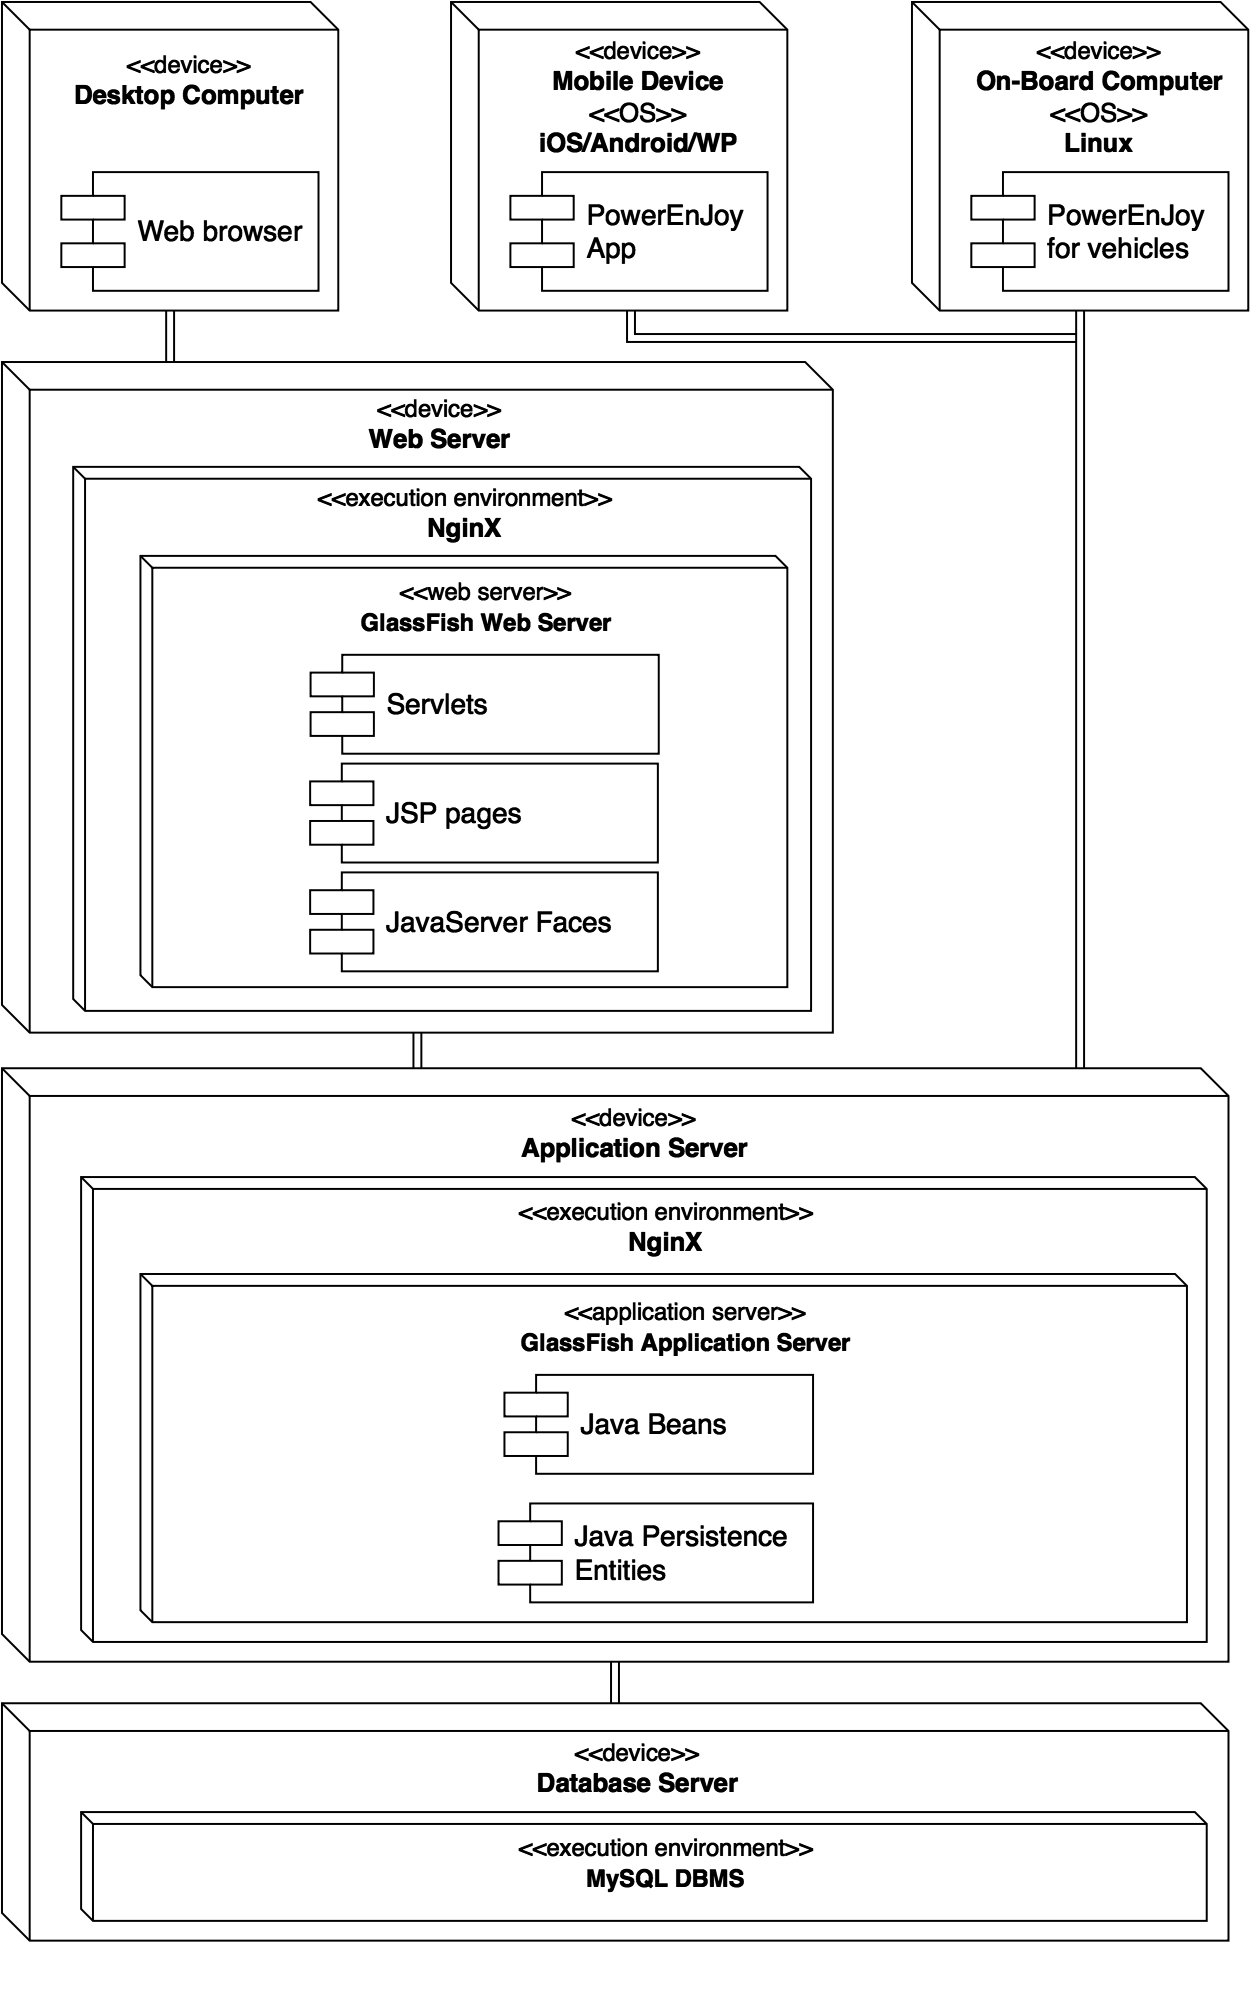
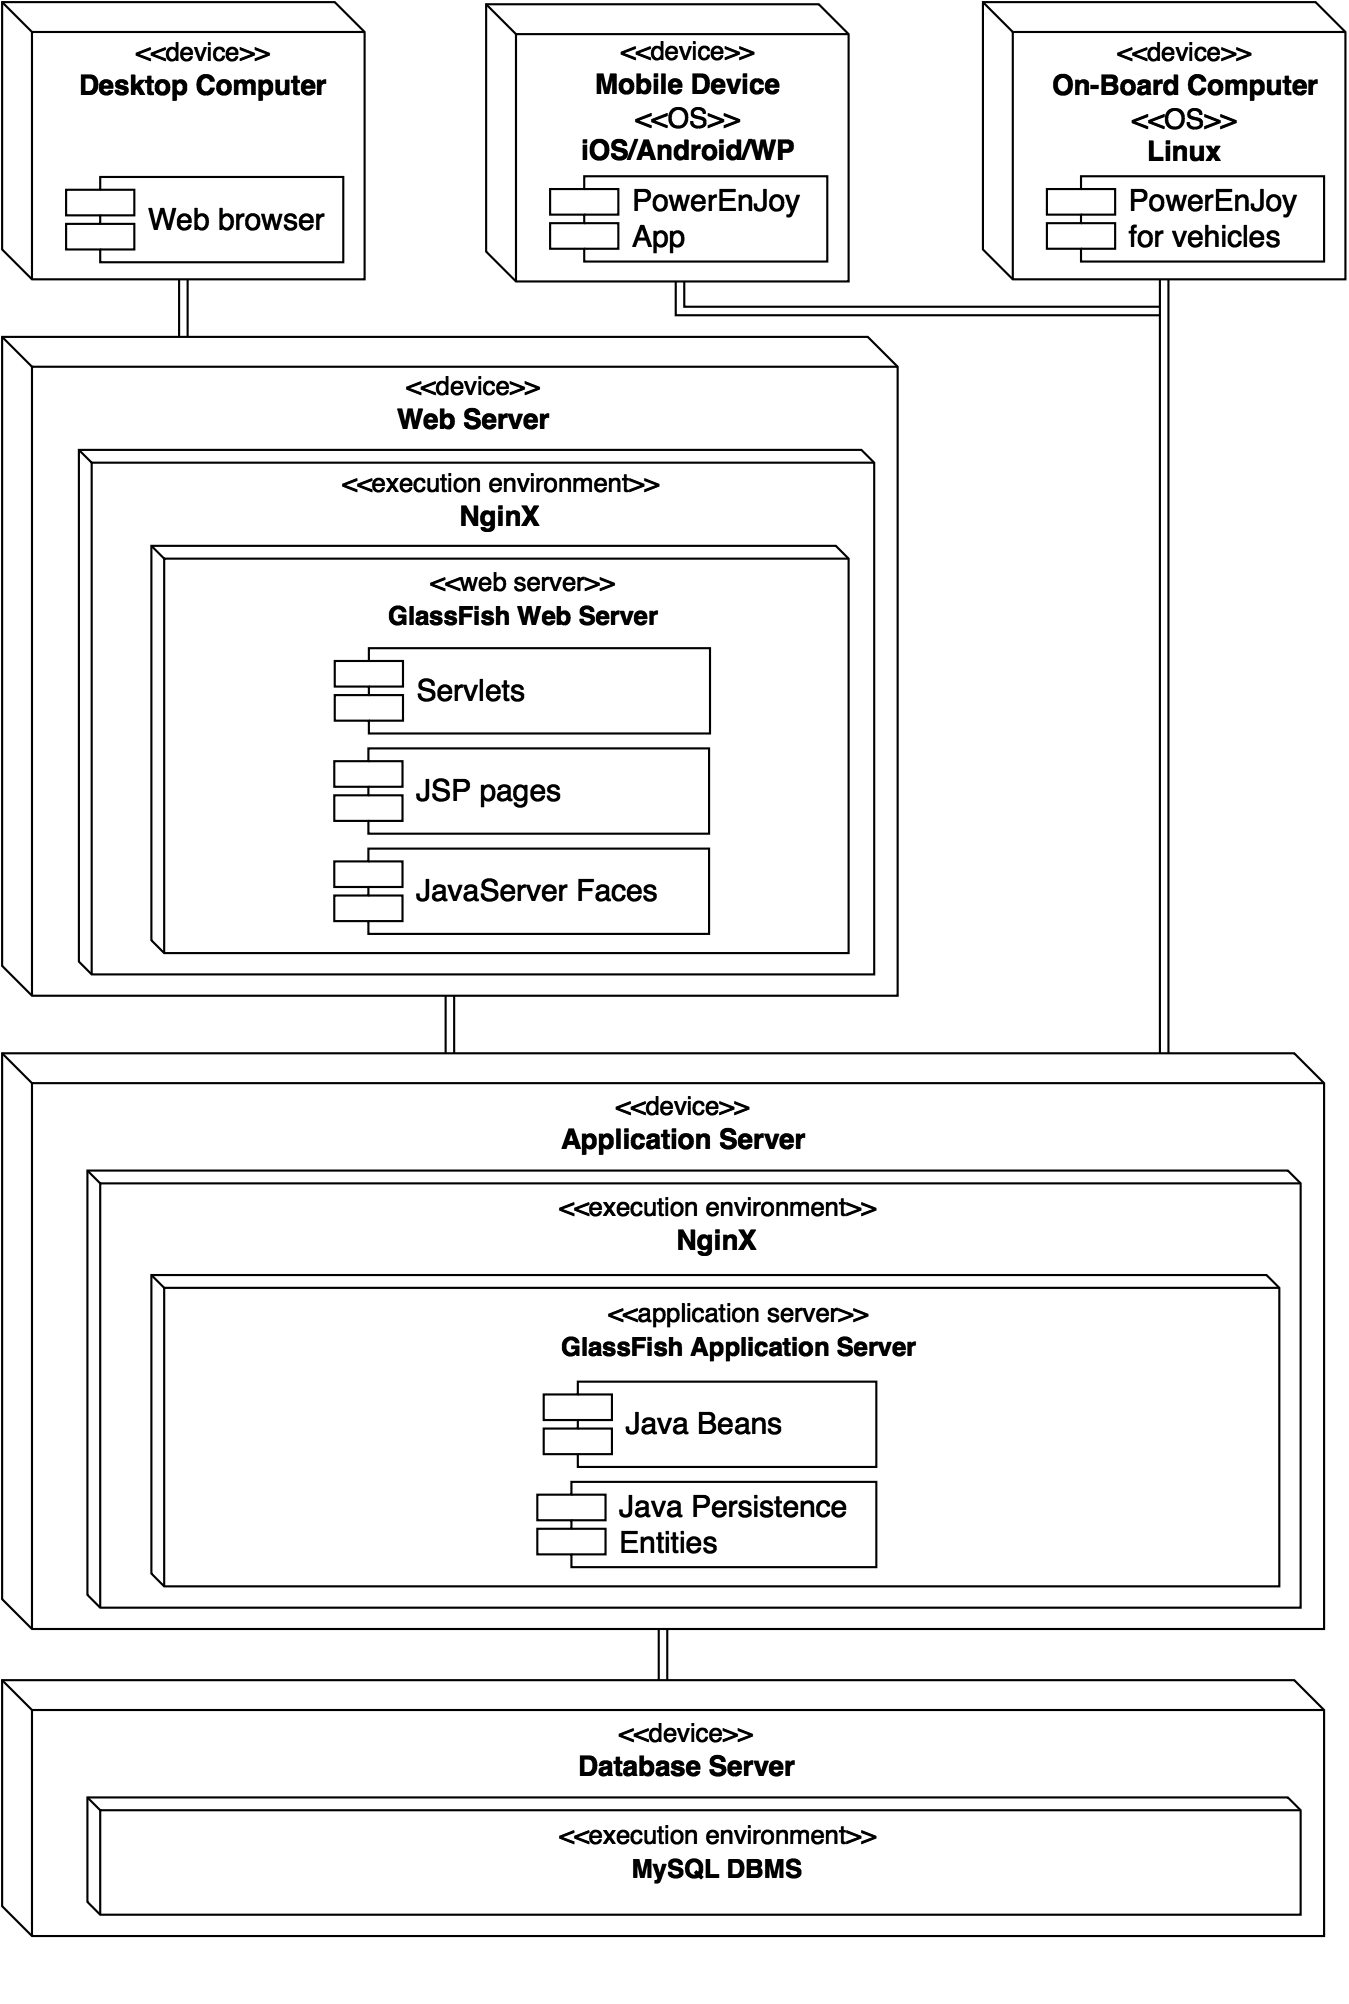
Various fixes

diff --git a/DD/contents/Architectural_design/runtime_view.tex b/DD/contents/Architectural_design/runtime_view.tex
@@ -1,13 +1,11 @@
-In order to state the interaction between the different components of the system here are presented some sequence diagrams.
-\\The sequence diagrams highlight the part of the system that interact for implement a function and the messages exchanged between them.
-
+In this section some sequence diagrams are presented to describe the interaction among different system's components.
 
 \begin{figure}[!ht]
   \centering
   \vspace{0.2cm}
   \includegraphics[width=1.15\textwidth, angle=90]{/DD/registration_runtime}\\
   \vspace{0.4cm}
-  \caption{Sequence diagram for the registration process using the web application.} 
+  \caption{Sequence diagram for the registration process using the web application} 
   \label{fig:registration_runtime} 
 \end{figure}
 \newpage
@@ -16,7 +14,7 @@ In order to state the interaction between the different components of the system
   \vspace{0.2cm}
   \includegraphics[width=1.4\textwidth, angle=90]{/DD/login_runtime}\\
   \vspace{0.4cm}
-  \caption{Sequence diagram for the login process using the web application.} 
+  \caption{Sequence diagram for the login process using the web application} 
   \label{fig:login_runtime} 
 \end{figure}
 \newpage
@@ -25,7 +23,7 @@ In order to state the interaction between the different components of the system
   \vspace{0.2cm}
   \includegraphics[width=1.4\textwidth, angle=90]{/DD/reservation_runtime}\\
   \vspace{0.4cm}
-  \caption{Sequence diagram for the reservation process using the mobile application.} 
+  \caption{Sequence diagram for the reservation process using the mobile application} 
   \label{fig:reservation_runtime} 
 \end{figure}
 \newpage
@@ -34,7 +32,7 @@ In order to state the interaction between the different components of the system
   \vspace{0.2cm}
   \includegraphics[width=1.4\textwidth, angle=90]{/DD/expiration_runtime}\\
   \vspace{0.4cm}
-  \caption{Sequence diagram for the reservation's expiration.} 
+  \caption{Sequence diagram for the reservation's expiration} 
   \label{fig:expiration_runtime} 
 \end{figure}
 \newpage
@@ -43,34 +41,34 @@ In order to state the interaction between the different components of the system
   \vspace{0.2cm}
   \includegraphics[width=1.4\textwidth, angle=90]{/DD/delete_reservation_runtime}\\
   \vspace{0.4cm}
-  \caption{Sequence diagram for the reservation's deletion using the mobile application.} 
+  \caption{Sequence diagram for the reservation's deletion using the mobile application} 
   \label{fig:delete_reservation_runtime} 
 \end{figure}
 \newpage
 \begin{figure}[!ht]
   \centering
   \vspace{0.2cm}
-  \includegraphics[width=1.4\textwidth, angle=90]{/DD/unlock_runtime}\\
+  \includegraphics[width=1.35\textwidth, angle=90]{/DD/unlock_runtime}\\
   \vspace{0.4cm}
-  \caption{Sequence diagram for the car un-lock process. The unlockRequest (as specified in the RASD document) must contain the car's PIN code.} 
+  \caption{Sequence diagram for the car un-lock process. The unlockRequest (as specified in the RASD document) must contain the car's PIN code} 
   \label{fig:unlock_runtime} 
 \end{figure}
 \newpage
 \begin{figure}[!ht]
   \centering
   \vspace{0.2cm}
-  \includegraphics[width=1.35\textwidth, angle=90]{/DD/start_runtime}\\
+  \includegraphics[width=1.3\textwidth, angle=90]{/DD/start_runtime}\\
   \vspace{0.4cm}
-  \caption{Sequence diagram for the start-ride process. It is important to highlight an abuse of terminology: the PIN keyword is used here representing the car-code (which is visible on the vehicle's windscreen) and in \ref{fig:unlock_runtime} representing the user's personal code.}
+  \caption{Sequence diagram for the start-ride process. It is important to highlight an abuse of terminology: the PIN keyword is used here representing the car-code (which is visible on the vehicle's windscreen) and in fig:\ref{fig:unlock_runtime} representing the user's personal code}
   \label{fig:start_runtime} 
 \end{figure}
 \newpage
 \begin{figure}[!ht]
   \centering
   \vspace{0.2cm}
-  \includegraphics[width=1.4\textwidth, angle=90]{/DD/charge_runtime}\\
+  \includegraphics[width=1.35\textwidth, angle=90]{/DD/charge_runtime}\\
   \vspace{0.4cm}
-  \caption{Sequence diagram for the charges computation and application. We decided to use an event-driven approach for the behaviour detection.} 
+  \caption{Sequence diagram for the charges computation and application. We decided to adopt an event-driven approach for the behaviour detection} 
   \label{fig:charge_runtime} 
 \end{figure}
 \newpage

diff --git a/DD/contents/Architectural_design/component_view.tex b/DD/contents/Architectural_design/component_view.tex
@@ -9,10 +9,10 @@
 
 \subsection{System components}
 To define and easily understand what kind of functionalities must be implemented in our system we decided to decompose PowerEnJoy logically into components, which are reusable and easily adaptable bricks for our application. 
-\\In this section the single components and their interactions are analysed. 
+\\In this section the single components and their interactions are analysed, the router component is not represented for sake of simplicity. 
 
 \begin{itemize}
-	\item \textbf{AuthenticationManager}: This component provides all the authentication-related functionalities such as registration, login and credentials generation. It is important to remark that a RESTful API is provided and so no session is created, instead a token is provided and used for authentication purposes.
+	\item \textbf{AuthenticationManager}: This component provides all the authentication-related functionalities such as registration, login, credentials generation and password recovery. It is important to remark here that a RESTful API is provided and so no session is created, instead a token is provided and used for authentication purposes.
 	\item \textbf{ProfileManager}: This component manages all the profile-related functionalities in order to allow informations' editing.
 	\item \textbf{LocationManager}: This component handles the logic behind the vehicle/user localization and tracking, it is also responsible for safe-areas and charging-stations' location consistency.
 	\item \textbf{ReservationController}: This component manages the reservation logic, it receives informations from the LocationManager, correctly handles the timing for expiration and queries the CarManager component to update the car status (FREE, RESERVED, INUSE, OUTOFSERVICE). It is responsible for the Reservation logic and correctness checking.
@@ -20,7 +20,7 @@ To define and easily understand what kind of functionalities must be implemented
 	\item \textbf{CarManager}: This component is responsible for communications with the on-board computer and for car's status update.
 	\item \textbf{ChargeManager}: This component handles the application of charges for rides and reservations, it also process the applications of fees and discounts due to bad/virtuous behaviours. It is responsible to communicate with the PaymentGateway to complete the payment process.
 	\item \textbf{NotificationManager}: This component manages the users' notification, in particular regarding charges and payment requests. It communicates with the NotificationGateway to effectively notify the users.
-	\item \textbf{PaymentGateway}: This component is responsible for the communication with the external payment handler in order to effectively request the payments(automatic payments are pre-authorized).
+	\item \textbf{PaymentGateway}: This component is responsible for the communication with the external payment handler in order to effectively process the payments(automatic payments are pre-authorized).
 	\item \textbf{NotificationGateway}: This component actually creates and send the user notification.
 	\item \textbf{Router}: This component is responsible for routing the requests to the correct components.
 	\item \textbf{Client}: The actual client device(Mobile/Web application).
@@ -28,6 +28,7 @@ To define and easily understand what kind of functionalities must be implemented
 	\item \textbf{DataBase}: The database used to store persistent data.
 \end{itemize}
 
+\newpage
 \subsection{Database components}
 In particular the data stored in the database will be split through different subcomponents that identified the main entities of our system:
 User,Vehicle, Location, Safe Area, Charging Station, Reservation, Ride, Behaviours and Payment.  

diff --git a/DD/contents/Architectural_design/overview.tex b/DD/contents/Architectural_design/overview.tex
@@ -1,6 +1,6 @@
-A brief description of the general design context, the general approach and the overall design of the system with its processes is presented in this section of the DD.
+A brief description of the overall design of the system is presented in this section of the DD.
 Our system will be developed as a 4-tiered JEE application, divided as Client Tier, Web Tier, Business Tier and the EIS Tier. It is distributed between client machines, Java EE server machine and the database.
-\\The mobile and web applications in particular are thin since data operations will be computed by a central server; in this way there is no heavy load on user side clients. We think that this is the most feasible approach because the two applications have the same goals. 
+\\The mobile and web applications in particular are thin since data operations will be computed by a central server; in this way there is no heavy load on user side clients.
 \\The diagram below provides a better understanding of the components of our system, highlighting the interactions among them:
 %\subsubsection{Architecture Component Diagram}
 \begin{figure}[!ht]
@@ -8,11 +8,8 @@ Our system will be developed as a 4-tiered JEE application, divided as Client Ti
   \vspace{0.2cm}
   \includegraphics[width=1.0\textwidth]{/DD/architecture}\\
   \vspace{0.4cm}
-  \caption{Components Diagram} 
-  \label{fig:4-Tier_Architecture} 
+  \caption{System architecture} 
+  \label{fig:architecture}
 \end{figure}
 
-This represent a high level view of the design of the system, were is highlighted the distribution of the system over the three locations and the interaction between the different tiers thanks to their interfaces.
-\\The Client Tier is composed by the On-board computer, the mobile application and the web application.
-\\The Web Tier and the Business Tier are inside the server machine. We can observe that the Web application need to interact with the Web Server before to access to the Application server while the mobile application has a direct access to it.
-\\The EIS Tier consists in a database that store all the system's data and interact through the DB Interface with the server.
+We can observe that the Web application needs to interact with the Web Server before accessing the Application server, the mobile application on the other side has a direct access to it.

diff --git a/DD/contents/Architectural_design/architectural_patterns.tex b/DD/contents/Architectural_design/architectural_patterns.tex
@@ -7,14 +7,6 @@ Building this application different architectural styles and patterns have been 
 		\item{Business tier: contains Java Beans and Java Persistence Entities. It receives data from client programs, processes it (if necessary), and sends it to the enterprise information system tier for storage. An enterprise bean also retrieves data from storage, processes it (if necessary), and sends it back to the client program. In our system it is implemented by the Application server.}
 		\item{Enterprise Information System tier: runs EIS software and includes enterprise infrastructure systems, such as enterprise resource planning (ERP), mainframe transaction processing, database systems, and other legacy information systems. It represents the data layer. The MySQL Database server is chosen for the creation and the maintainance of all the application data.}
 	\end{itemize}
-	\begin{figure}[!ht]
-  \centering
-  \vspace{0.2cm}
-  \includegraphics[width=0.6\textwidth]{/DD/jee_architecture}\\
-  \vspace{0.4cm}
-  \caption{Components Diagram} 
-  \label{fig:Architecture of the system} 
-\end{figure}
 \subsection{Client-Server}
 	The client-server communication model is highly used in this application.
 	The On-Board computer and the Mobile application are clients with respect to the Application Server. The Web application consist of a Web browser that is a client with respect to the Web Server. The Web server is also a client with respect to the Application server. The Database is a server with respect to the Application server that act as a client.

diff --git a/DD/contents/Architectural_design/component_interfaces.tex b/DD/contents/Architectural_design/component_interfaces.tex
@@ -1,4 +1,3 @@
-
 In our system there are three main interfaces: the first one between the Database and the Application server, the second one between the Application server and the Web server, the Mobile application and the On-Board computer and finally the third interface is between the Web server and the Web application.
 
 \subsection{PDO}
@@ -10,5 +9,3 @@ browsers ) to interact with the BLL. API calls that need authentication are
 required to authenticate via HTTP basic authentication for each request. exchanged
 data will be secured using SSL.
 as now ( v1 ) our exposed methods are the following:
-
-

diff --git a/DD/contents/Architectural_design/deployment_view.tex b/DD/contents/Architectural_design/deployment_view.tex
@@ -9,11 +9,12 @@ made.}
 	\item{In the Database all the information of the system are stored. It's accessible only by the Application Server that store and take data from there.}
 \end{itemize} 
 
+\newpage
 \begin{figure}[!ht]
   \centering
-  \vspace{0.2cm}
-  \includegraphics[width=0.65\textwidth]{/DD/deployment_view}\\
-  \vspace{0.4cm}
+  \vspace{0.1cm}
+  \includegraphics[width=0.9\textwidth]{/DD/deployment_view}\\
+  \vspace{0.1cm}
   \caption{Deployment View diagram} 
   \label{fig:DeploymentView} 
 \end{figure}

diff --git a/DD/contents/Architectural_design.tex b/DD/contents/Architectural_design.tex
@@ -7,6 +7,7 @@
 	\input{contents/Architectural_design/component_view}
 	
 
+\newpage
 \section{Deployment view}
 	\input{contents/Architectural_design/deployment_view}
 
